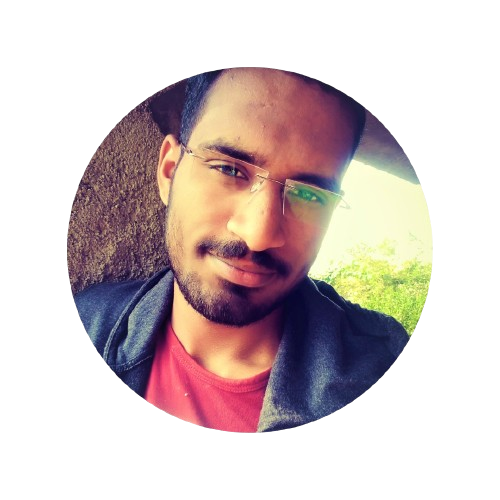
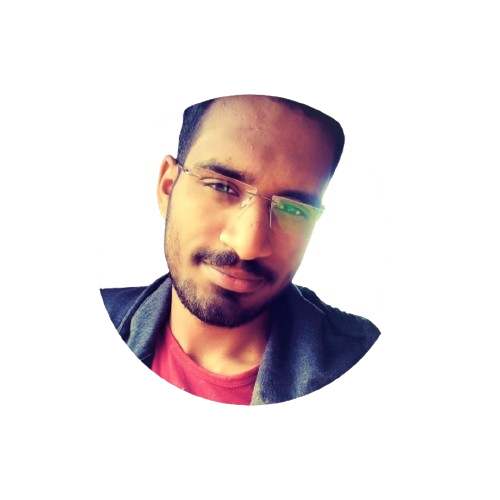
Added information and code modification.

diff --git a/index.html b/index.html
@@ -68,7 +68,7 @@
 					</div>
 					<div class="col-xl-2 col-lg-2 col-md-10 col-9 text-right">
 						<div class="apihu-port-header-cta">
-							<a href="mailto:abhishekraut2355@gmail.com">Let's Chat <i class="fas fa-comment-dots"></i></a>
+							<a href="https://wa.me/8600916352?text=Hello%20there!" target="_blank">Let's Chat <i class="fas fa-comment-dots"></i></a>
 						</div>
 
 						<div class="apihu-port-mobile-menu-hamburger">
@@ -119,8 +119,8 @@
 								</span> 
 							</h1>
 							<ul class="apihu-port-hero-btn-wrap wow slideInUp" style="visibility: visible; animation-name: slideInUp;">
-								<li><a class="apihu-port-primary-btn apihu-port-hero-btn-gradient" href="mailto:abhishekraut2355@gmail.com">Contact Me +</a></li>
-								<li><a class="apihu-port-secondary-btn apihu-port-hero-btn-white" href="#apihu-port-resume">About Me <i class="fa-solid fa-arrow-down"></i></a></li>
+								<li><a class="apihu-port-primary-btn apihu-port-hero-btn-gradient" href="mailto:abhishekraut2355@gmail.com">Hire Me +</a></li>
+								<li><a class="apihu-port-secondary-btn apihu-port-hero-btn-white" href="https://drive.google.com/file/d/1uqWXP3Rr-QVeXSHzjDRNPMVJlFeUDX_l/view?usp=sharing" target="_blank">Download CV <i class="fas fa-download"></i></a></li>
 							</ul>
 						</div>
 					</div>
@@ -129,9 +129,9 @@
 						<!-- hero area social -->
 						<div class="apihu-port-hero-social">
 							<ul>
-								<li><a href="https://www.linkedin.com/in/rautabhishek/"><i class="fa-brands fa-linkedin-in"></i></a></li>
-								<li><a href="https://github.com/abhishek2355"><i class="fa-brands fa-github"></i></a></li>
-								<li><a href="https://www.instagram.com/abhishekraut2710/"><i class="fab fa-instagram"></i></a></li>
+								<li><a href="https://www.linkedin.com/in/rautabhishek/" target="_blank"><i class="fa-brands fa-linkedin-in"></i></a></li>
+								<li><a href="https://github.com/abhishek2355" target="_blank"><i class="fa-brands fa-github"></i></a></li>
+								<li><a href="https://www.instagram.com/abhishekraut2710/" target="_blank"><i class="fab fa-instagram"></i></a></li>
 							</ul>
 						</div>
 						<!-- hero profile image -->
@@ -167,35 +167,82 @@
 							<h2 class="apihu-port-about-title">passionate about new technologies<h2>
 							<p class="apihu-port-about-text">I am final year student of <b>Information Technology Engineering</b> at <b>Dr. Babasaheb Ambedkar Technological University Lonere Raigad.</b> I am passionately delving into the realms of software development and mobile technologies. I am driven by a relentless curiosity to explore and innovate in the dynamic world of technology.</p>
 							<div class="apihu-port-about-expertise">
+								<!-- Buttons -->
 								<ul class="nav nav-pills" id="pills-tab" role="tablist">
 									<li class="nav-item">
-									  <a class="nav-link active show" id="pills-home-tab" href="https://www.linkedin.com/in/rautabhishek/" role="tab" aria-controls="pills-home" aria-selected="true"><i class="fa-brands fa-linkedin"></i> LinkedIn</a>
+										<a class="nav-link active show" id="pills-home-tab" data-toggle="pill" role="tab" aria-controls="pills-home" aria-selected="true" href="#pills-home">Main Skill</a>
 									</li>
 									<li class="nav-item">
-									  <a class="nav-link active show" id="pills-profile-tab" href="https://github.com/abhishek2355" role="tab" aria-controls="pills-profile" aria-selected="false"><i class="fa-brands fa-square-github"></i> Github</a>
+										<a class="nav-link" id="pills-home-tab" data-toggle="pill" role="tab" aria-controls="pills-profile" aria-selected="false" href="#pills-profile">Awards</a>
 									</li>
-									
-								  </ul>
-							
-								  <div class="tab-content" id="pills-tabContent">
-										<div class="tab-pane fade active show" id="pills-home" role="tabpanel" aria-labelledby="pills-home-tab">
-											<ul>
+									<li class="nav-item">
+										<a class="nav-link" id="pills-home-tab" data-toggle="pill" role="tab" aria-controls="pills-contact" aria-selected="false" href="#pills-contact">Codefolio</a>
+									</li>
+								</ul>
+
+								<div class="tab-content" id="pills-tabContent">
+									<!-- Skill Button Press -->
+									<div class="tab-pane fade active show" id="pills-home" role="tabpanel" aria-labelledby="pills-home-tab">
+										<ul>
+											<li>
+												<span class="apihu-port-expertise-title">User Centric - Flutter App Development</span>
+												<span class="apihu-port-expertise-text">Crafting intuitive Flutter apps with a user-first approach.</span>
+											</li>
+											<li>
+												<span class="apihu-port-expertise-title">Web & User Interface Design - Development</span>
+												<span class="apihu-port-expertise-text">Designing and developing captivating web interfaces for seamless user experiences.</span>
+											</li>
+											<li>
+												<span class="apihu-port-expertise-title">Integrated Digital Solutions - Full Stack Development</span>
+												<span class="apihu-port-expertise-text">Seamless Integration, Comprehensive Solutions.</span>
+											</li>	
+											<li>
+												<span class="apihu-port-expertise-title">Python Development</span>
+												<span class="apihu-port-expertise-text">Crafting efficient solutions with Python's versatility and power.</span>
+											</li>										
+										</ul>
+									</div>
+
+									<!-- Awards Button press -->
+									<div class="tab-pane fade" id="pills-profile" role="tabpanel" aria-labelledby="pills-home-tab">
+										<ul>
+											<li>
+												<span class="apihu-port-expertise-title">Mobile App Development Awards (Gold Medal) 2023</span>
+												<span class="apihu-port-expertise-text">Flutter Application Awards.</span>
+											</li>
+											<li>
+												<span class="apihu-port-expertise-title">Web Development Award 2021</span>
+												<span class="apihu-port-expertise-text">Designed Website with HTMl, CSS, Javascript</span>
+											</li>
+										</ul>
+									</div>
+
+									<!-- Education Button press -->
+									<div class="tab-pane fade" id="pills-contact" role="tabpanel" aria-labelledby="pills-home-tab">
+										<ul>
+											<a href="https://leetcode.com/u/abhishek_raut2355/" target="_blank">
 												<li>
-													<span class="apihu-port-expertise-title">Worked with Tkinter, OpenCv, PyAudio and StreamLit</span>
-													<span class="apihu-port-expertise-text">Useful Libraries in Python</span>
+													<span class="apihu-port-expertise-title">Coding Profile - LeetCode</span>
+													<span class="apihu-port-expertise-text">Solved 300+ LeetCode questions.</span>
 												</li>
+											</a>
+											<a href="https://www.codechef.com/users/abhisahekraut" target="_blank">
 												<li>
-													<span class="apihu-port-expertise-title">Currently working with <font style="color: blue;">Flutter (A framework by Google)</font></span>
-													<span class="apihu-port-expertise-text">Soon going to gain some experience in it.</span>
+													<span class="apihu-port-expertise-title">Coding Profile - CodeChef</span>
+													<span class="apihu-port-expertise-text">Solved 500+ CodeChef questions. Highest rating: 1597.</span>
 												</li>
-											</ul>
-										</div>
-										
-							
-							<div class="apihu-port-about-btn">
-								<a href="#">Resume <i class="fas fa-download"></i></a>
-							</div>
-							
+											</a>
+											<a href="https://www.hackerrank.com/profile/abhishekraut2355" target="_blank">
+												<li>
+													<span class="apihu-port-expertise-title">Coding Profile - HackerRank</span>
+													<span class="apihu-port-expertise-text">5 stars in C, C++, Python, etc.</span>
+												</li>
+											</a>
+											
+										</ul>
+									</div>
+								</div>
+							</div>							
 						</div>
 					</div>
 				</div>

diff --git a/assets/type.js b/assets/type.js
@@ -1,7 +1,7 @@
 const typedTextSpan = document.querySelector(".typed-text");
 const cursorSpan = document.querySelector(".cursor");
 
-const textArray = ["Python Development", "Flutter Development", "Web Development"];
+const textArray = ["Python Development", "Flutter Development", "Web Development", "Data Science", "Machine Learning"];
 const typingDelay = 200;
 const erasingDelay = 100;
 const newTextDelay = 2000; // Delay between current and next text
